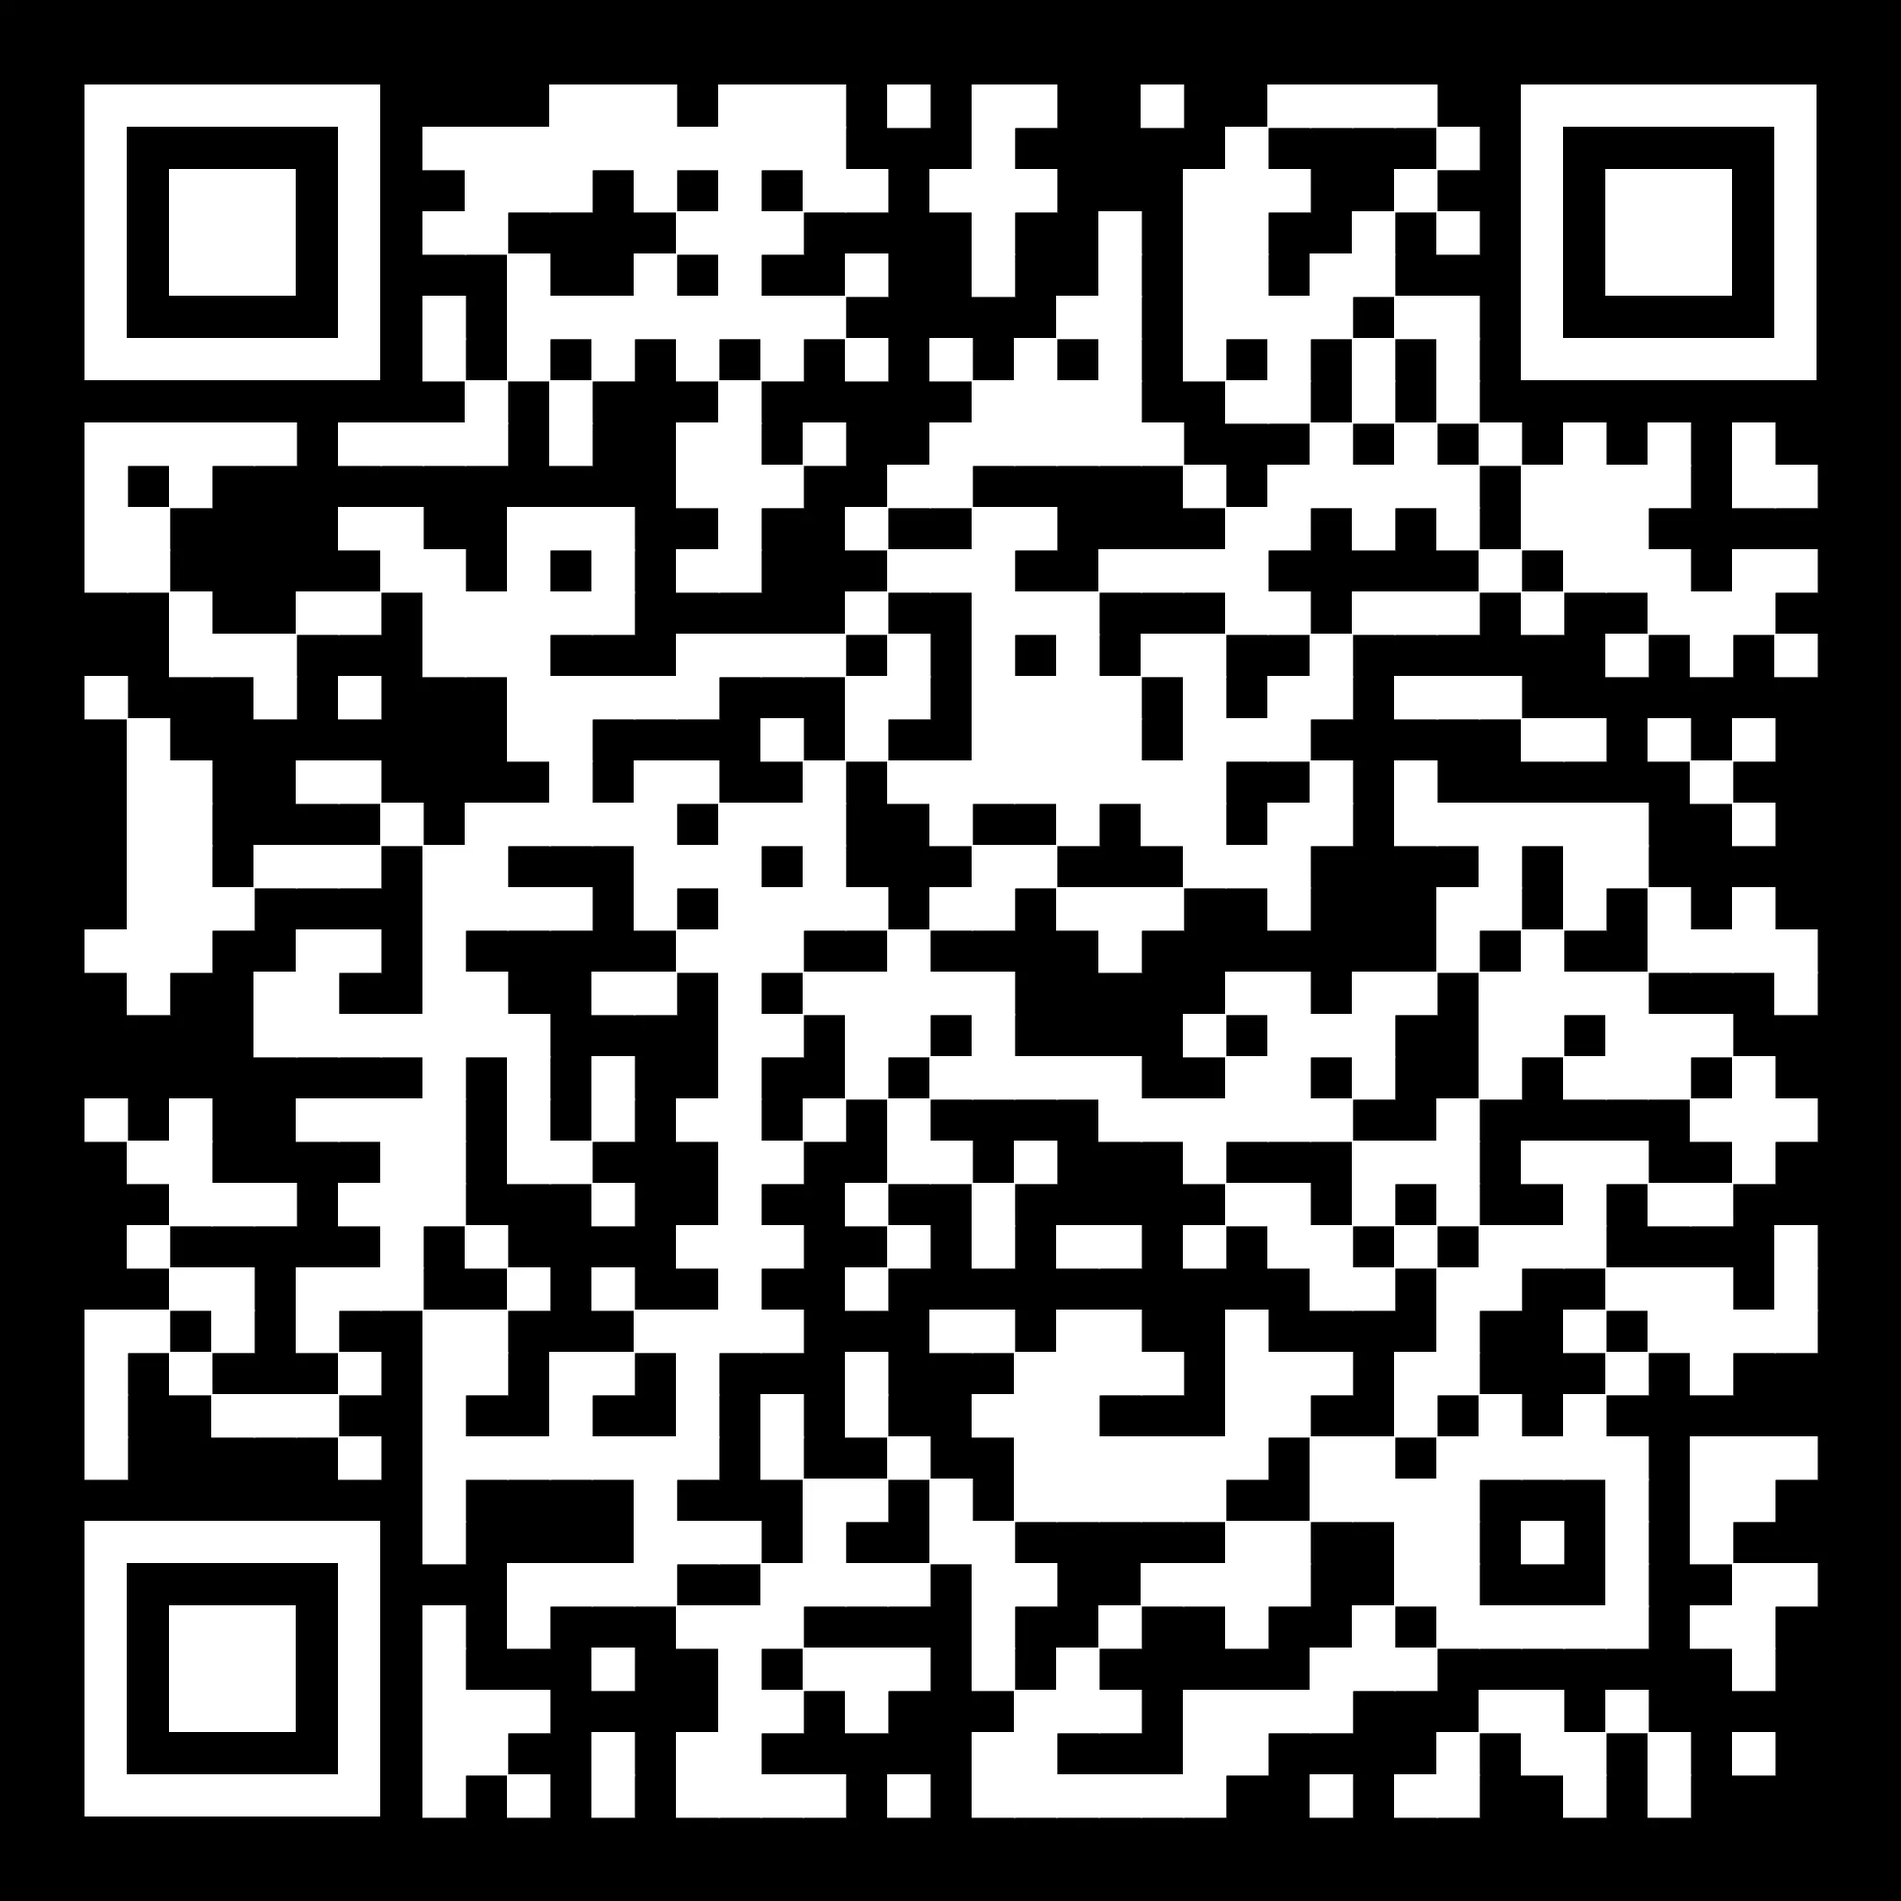
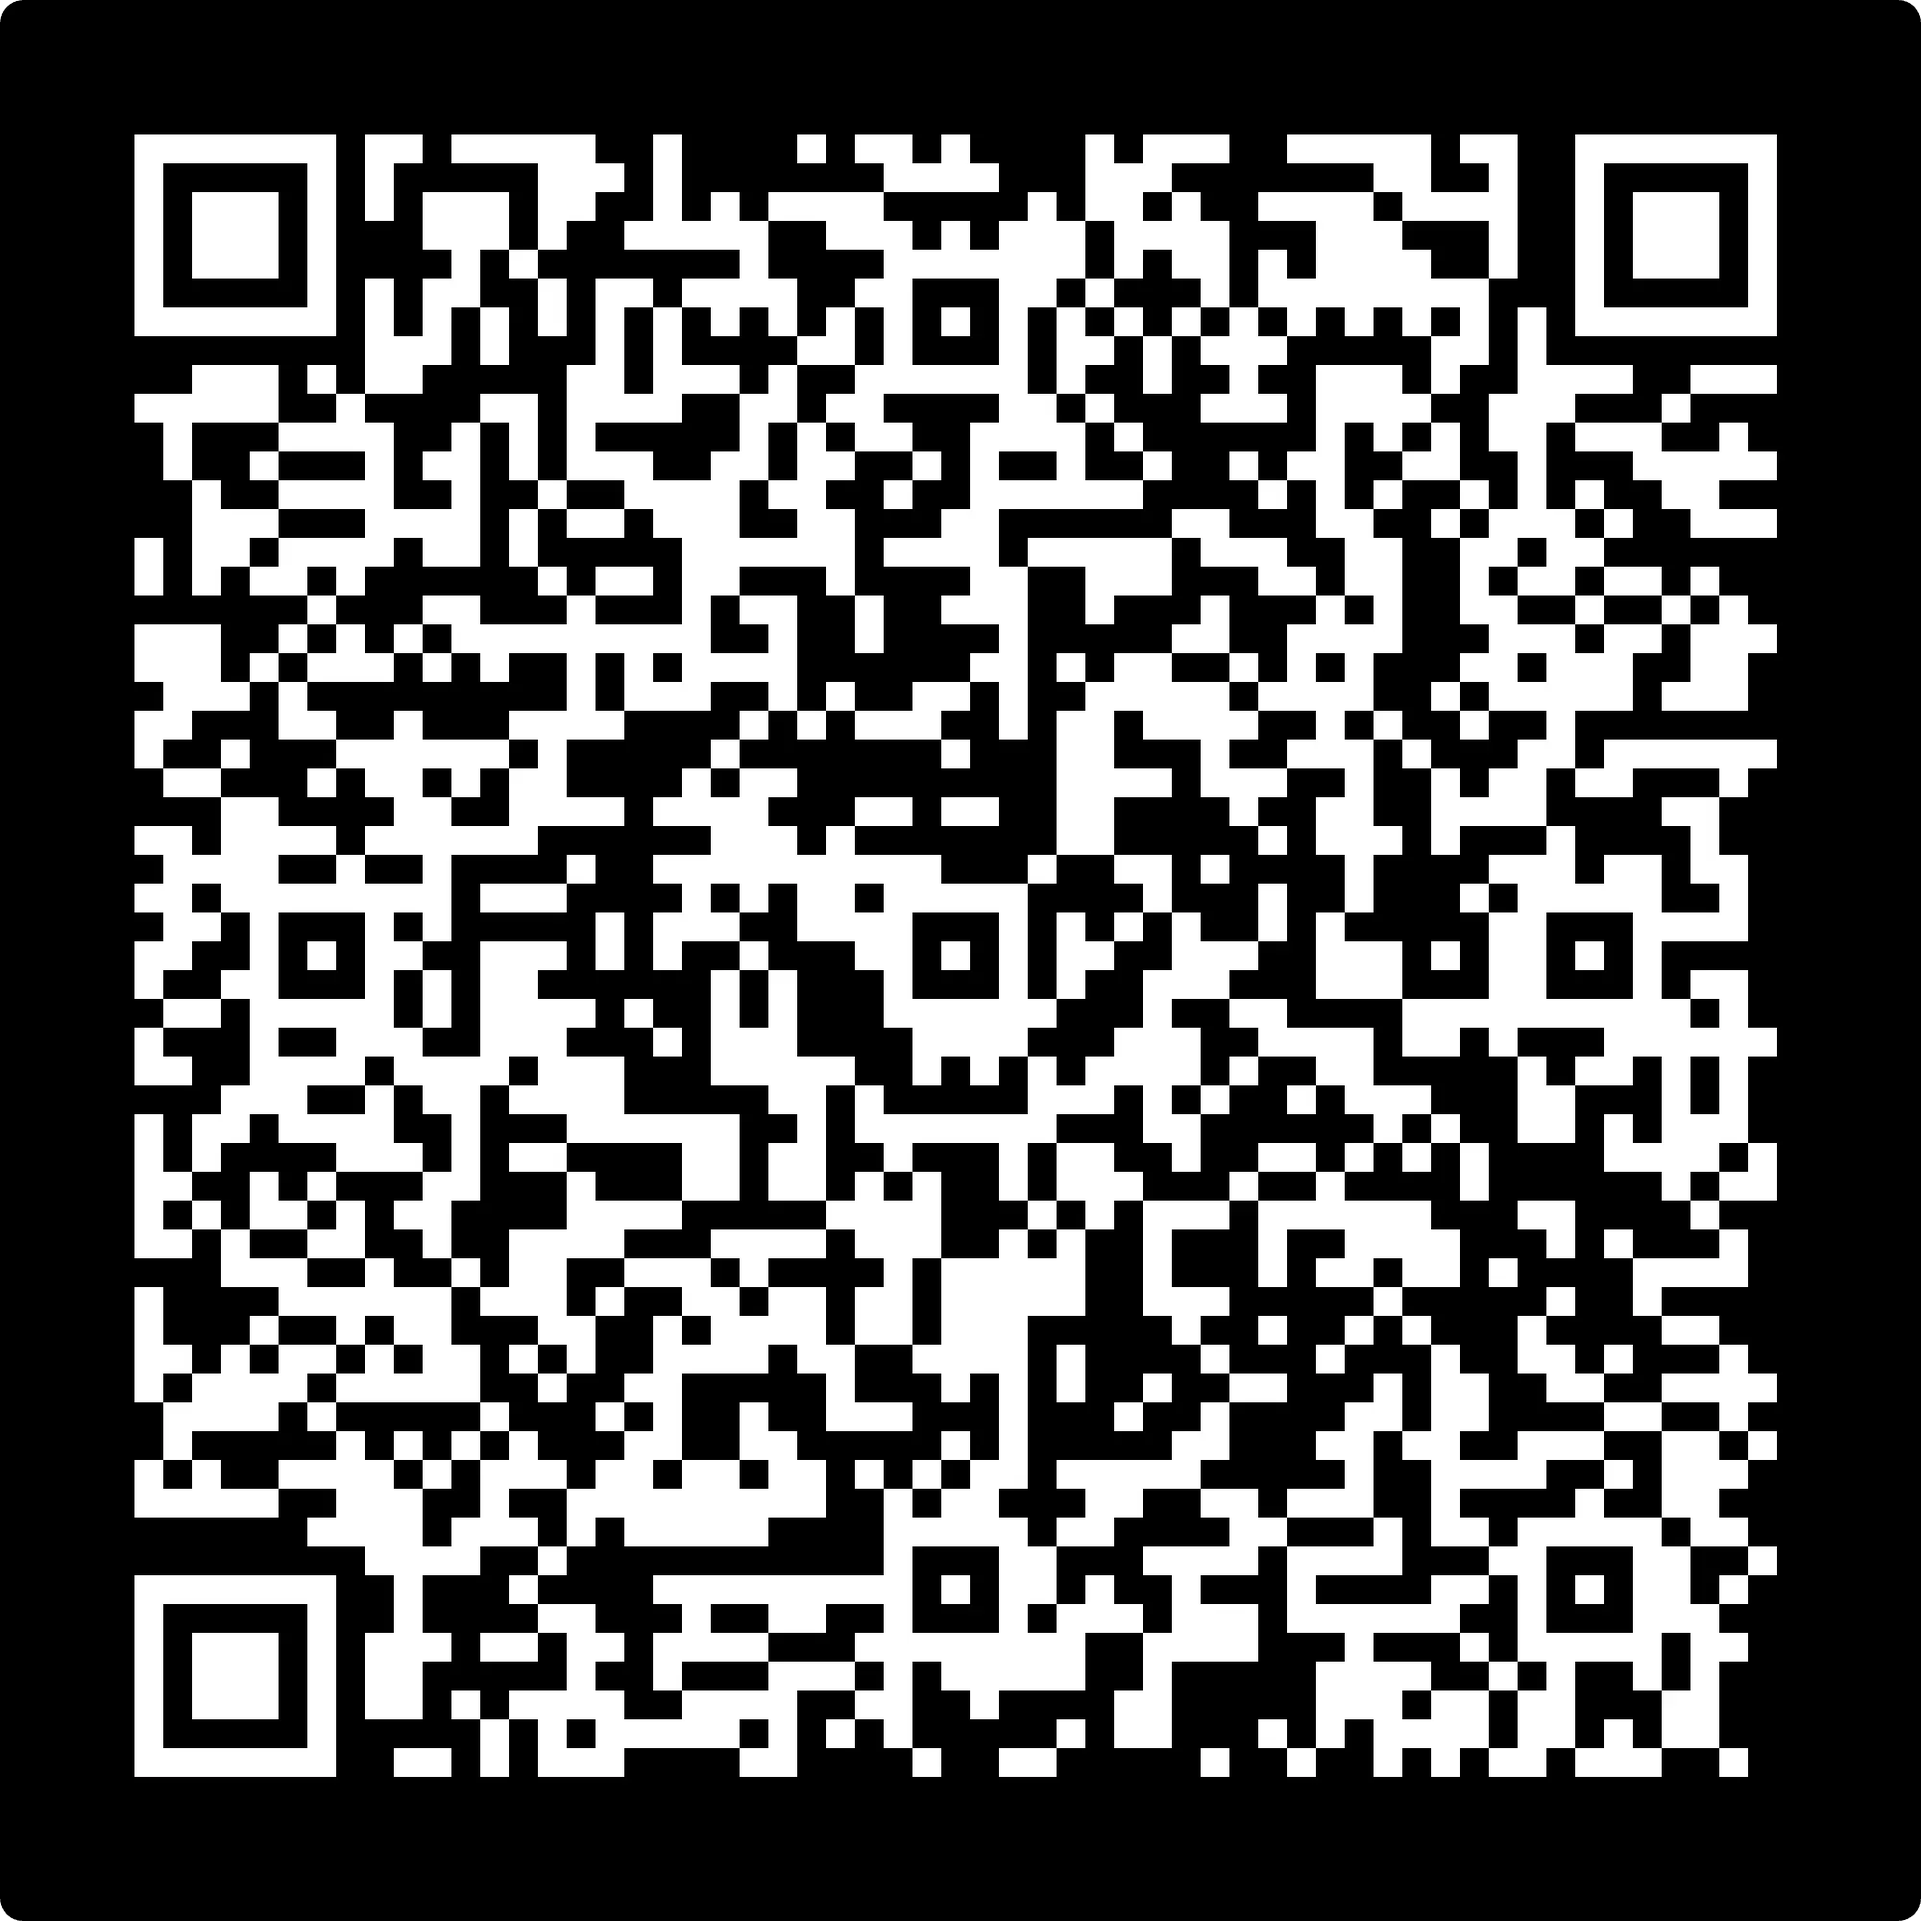
Added Brest community

diff --git a/docs/guides/channels.md b/docs/guides/channels.md
@@ -35,15 +35,15 @@
 ### Частные каналы
 Частные каналы предназначены для более узкого круга участников и требуют разрешения для доступа. Они идеально подходят для групповых сообщений, таких как координация между членами команды или обмен информацией, которая не предназначена для широкой публики. Частные каналы обеспечивают уровень конфиденциальности и безопасности, позволяя участникам общаться в более контролируемой среде.
 
-:rocket::rocket::rocket: Присоединяйтесь к нашему Meshtastic каналу [**868party**](https://meshtastic.org/e/?add=true#CiESEA7wCBlVt7xxpIv4DHANVhMaCDg2OHBhcnR5JQIAAAASFggBGPoBIAsoBTgDQARIAVAbaAHABgE) в Минске, чтобы быть в курсе последних новостей, событий и обсуждений, связанных с нашей сетью. 
+:rocket::rocket::rocket: Присоединяйтесь к Meshtastic каналу [**868party**](https://meshtastic.org/e/?add=true#CiESEA7wCBlVt7xxpIv4DHANVhMaCDg2OHBhcnR5JQIAAAASFggBGPoBIAsoBTgDQARIAVAbaAHABgE) в Минске, чтобы быть в курсе последних новостей, событий и обсуждений, связанных с нашей сетью. 
 
 Используйте QR-код ниже, чтобы быстро найти канал и присоединиться к сообществу! 
 
 <!-- Изпользуем "сырую" вертку чтобы выровнять по центру, так как по дефолтку идет вертска к правой стороне -->
-<!-- ![Meshtastic 868party](../static/qr/meshtastic-party868.webp){ width="300" } -->
+<!-- ![Meshtastic 868party](../static/qr/tg-minsk.webp){ width="300" } -->
 
 <div style="text-align: center;">
-    <img alt="Mestastic 868party" src="../../static/qr/meshtastic-party868.webp" width="300">
+    <img alt="Mestastic 868party" src="../../static/qr/tg-minsk.webp" width="300">
 </div>
 
 !!! tip "Совет"

diff --git a/docs/index.md b/docs/index.md
@@ -18,5 +18,10 @@
 - **Meshtastic Minsk [868 MHz]** [Telegram](https://t.me/+urWsU1L2NDk2YzIy) переходите по ссылке и присоединяйтесь к обсуждению.  
 Используйте QR-код ниже, чтобы быстро найти наш Telegram-канал и присоединиться к сообществу!
 
-    ![Логотип Telegram MeshNetBY](static/tg-logo.webp){ width="300" } ![QR код Telegram MeshNetBY](static/qr/telegram-whiteback-invite.webp){ width="300" }
+    ![Логотип Telegram MeshNetBY](static/tg-logo.webp){ width="300" } ![QR код Telegram MeshNetBY](static/qr/tg-minsk.webp){ width="300" }
+
+- **Meshtastic Brest [868 MHz]** [Telegram](https://t.me/meshtastic_brest_868) переходите по ссылке и присоединяйтесь к обсуждению в городе Брест.  
+Используйте QR-код ниже, чтобы быстро найти Telegram-канал наших друзей и присоединиться к сообществу!
+
+    ![Логотип Telegram MeshNetBY](static/tg-logo-brest.webp){ width="300" } ![QR код Telegram MeshNetBY](static/qr/tg-brest.webp){ width="300" }
 
